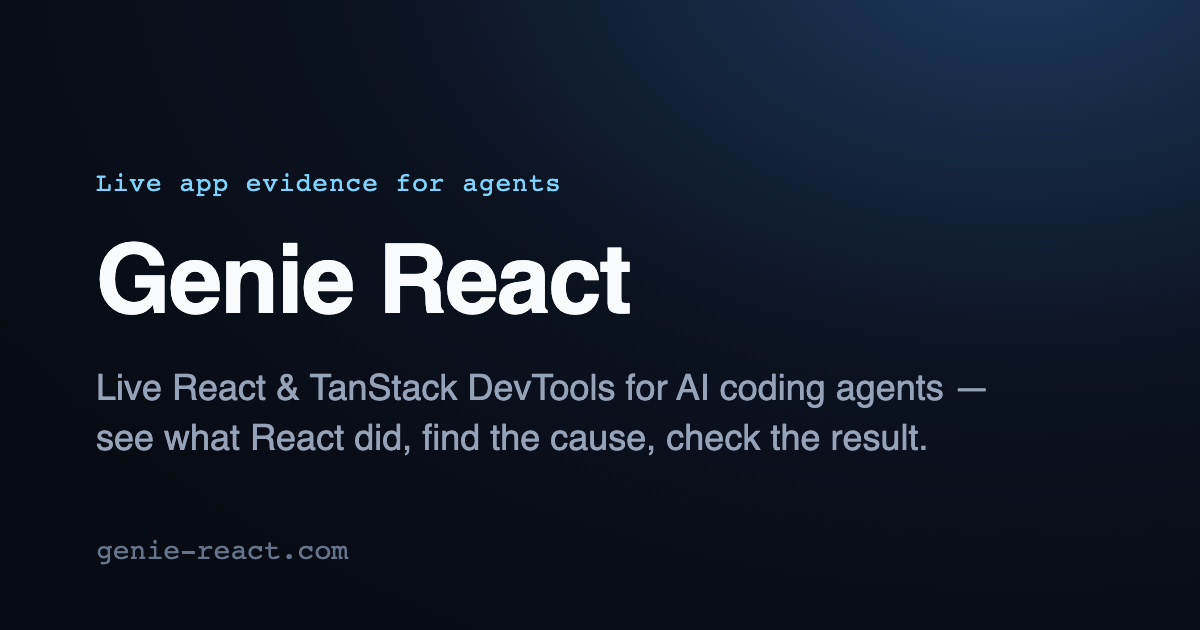
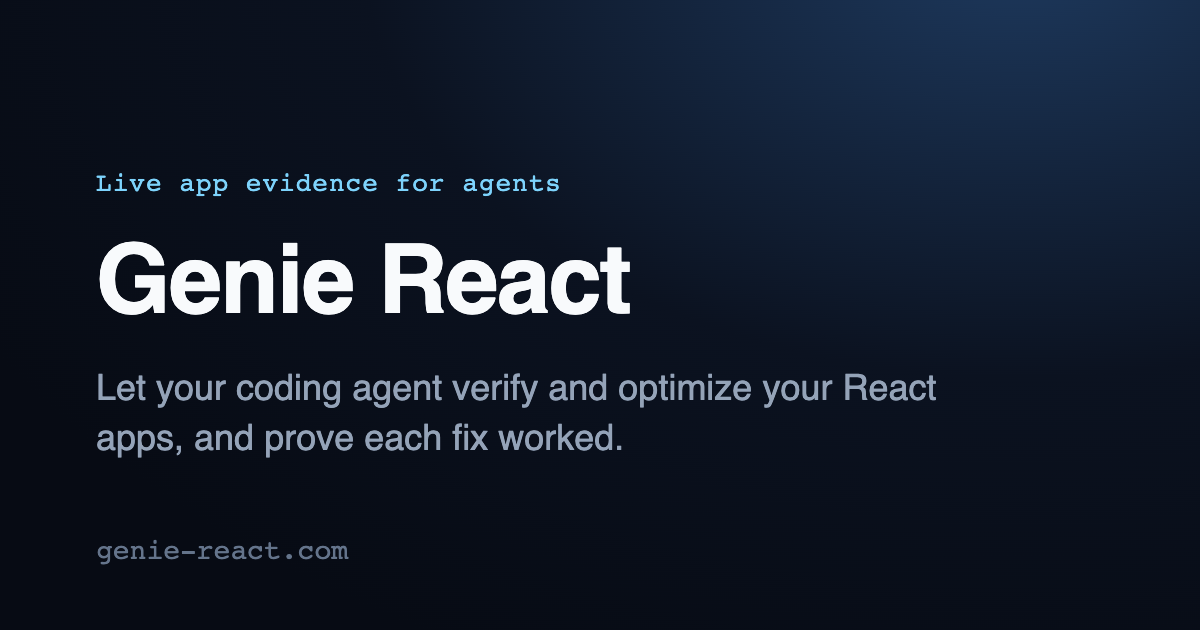
Use one description of Genie everywhere: verify and optimize React apps
npm, GitHub, the docs site, the social card, the CLI help and Context7 each
described the product differently. They now share one line, and both npm
packages point their homepage at genie-react.com.

Changed region(s): [[0.0617, 0.573, 0.8325, 0.7238]]

diff --git a/packages/cli/src/cli-help.ts b/packages/cli/src/cli-help.ts
@@ -298,7 +298,9 @@ export function cliHelp(name?: string): unknown {
     schemaVersion: CLI_OUTPUT_SCHEMA_VERSION,
     status: 'ok',
     command: name ?? 'genie-react',
-    description: command?.description ?? 'Live React and TanStack DevTools for coding agents',
+    description:
+      command?.description ??
+      'Verify and optimize a running React or React Native app from the terminal',
     ...(command
       ? { arguments: command.arguments, notes: command.notes ?? [] }
       : {

diff --git a/apps/docs/src/lib/shared.ts b/apps/docs/src/lib/shared.ts
@@ -1,6 +1,6 @@
 export const appName = 'Genie React'
 export const appDescription =
-  'Let your coding agent see inside a running React or React Native app and prove that a fix worked.'
+  'Let your coding agent verify and optimize your React and React Native apps: see what rendered and why, and prove each fix worked.'
 export const siteUrl = 'https://genie-react.com'
 export const docsRoute = '/docs'
 

diff --git a/README.md b/README.md
@@ -6,7 +6,7 @@
 [![CI](https://github.com/Genie-sa/genie-react/actions/workflows/ci.yml/badge.svg)](https://github.com/Genie-sa/genie-react/actions/workflows/ci.yml)
 [![license](https://img.shields.io/npm/l/genie-react.svg)](./LICENSE)
 
-Genie lets your coding agent see inside a running React or React Native app and prove that a fix worked.
+Genie lets your coding agent verify and optimize your React and React Native apps. It sees what rendered and why, and proves each fix worked.
 
 Your agent already drives the app with [agent-browser](https://github.com/vercel-labs/agent-browser) or [agent-device](https://github.com/callstack/agent-device) and sees the screen. Genie tells it what happened underneath: which components rendered and why, which effects ran, what TanStack Query and Router did, and which error boundary caught what. When the agent says "fixed", `genie-react verify` checks the claim and exits with the verdict.
 

diff --git a/.changeset/verify-and-optimize-description.md b/.changeset/verify-and-optimize-description.md
@@ -1,0 +1,6 @@
+---
+"genie-react": patch
+"@genie-react/cli": patch
+---
+
+Describe Genie as the way your coding agent verifies and optimizes React and React Native apps, and point the npm homepage at genie-react.com.
